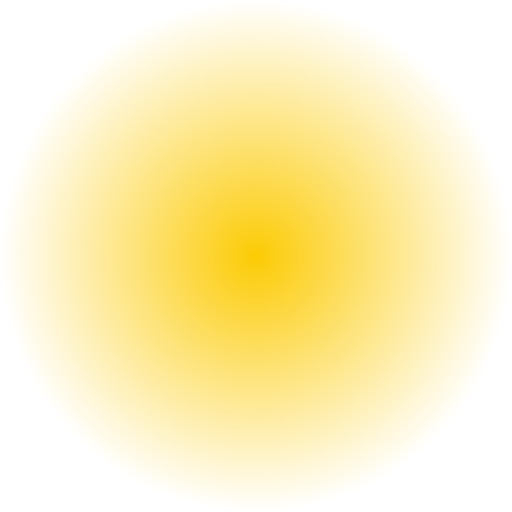
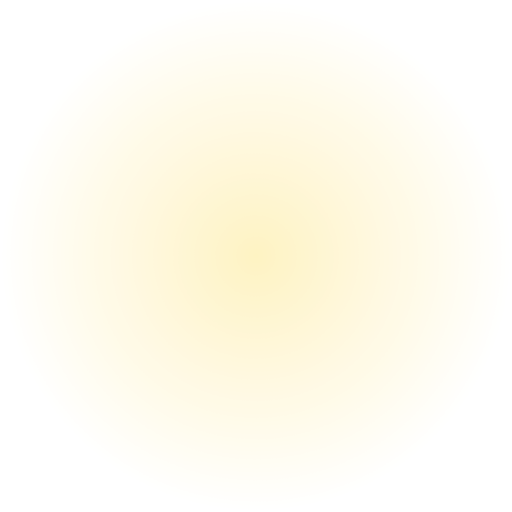
Better headlights

diff --git a/src/examples/project/Car.ts b/src/examples/project/Car.ts
@@ -80,7 +80,7 @@ export class Car extends EntityTree {
 		this.setScale(0.15)
 		this.wheels = wheels
 
-		this.headlightProjectors = [new Camera(0.3, 1, 0.1, 10), new Camera(0.3, 1, 0.1, 10)]
+		this.headlightProjectors = [new Camera(1, 1, 0.1, 10), new Camera(1, 1, 0.1, 10)]
 		this.headlightProjectors[0].position(0.4, 0.52, 0.8)
 		this.headlightProjectors[0].position(-0.4, 0.52, 0.8)
 	}
